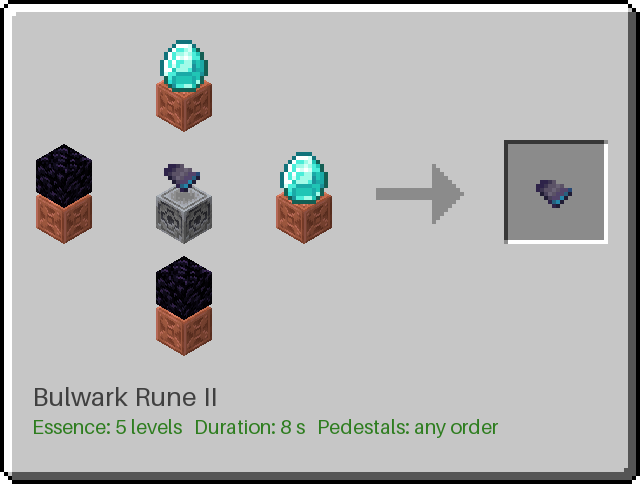
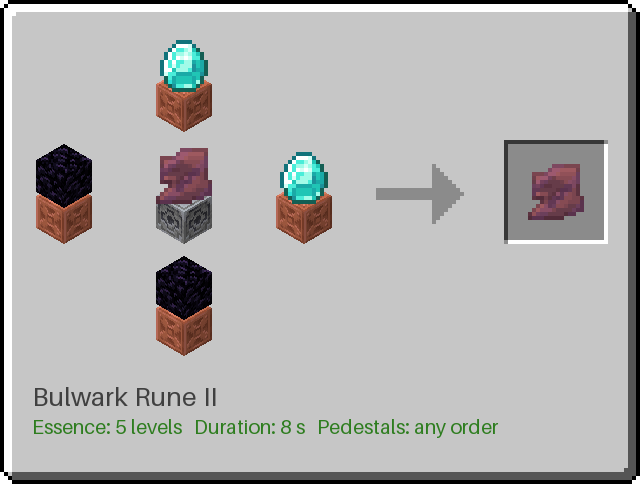
Rune sherd bases
- Name the pottery sherd base of the Blank Rune and of each rune aspect
- Note that Golemancy sherd items are never appraised by Relic Appraiser
- Replace the Blank Rune recipe and 21 rune infusion images with sherd icons

Changed region(s): [[0.8125, 0.3409, 0.9375, 0.4649], [0.2188, 0.2789, 0.3438, 0.4339]]

diff --git a/adapt/36-items-orbs-bound-objects.md b/adapt/36-items-orbs-bound-objects.md
@@ -2,7 +2,7 @@
 title: "Items, Orbs & Bound Objects"
 description: "Experience orbs, backpacks, bound items, and stored item data"
 published: true
-date: 2026-10-18T00:00:00.000Z
+date: 2026-10-19T20:42:18.000Z
 tags: "adapt"
 editor: markdown
 dateCreated: 2026-08-09T00:00:00.000Z
@@ -58,8 +58,8 @@ Item data survives drops, chests, and restarts. Trigger, cooldown, range, and re
 | Filter Node | `BRICK` | Golemancy: Sorter Core | Item kind and node type |
 | Angler Core | `FIREWORK_STAR` | Golemancy: Angler Core | Item kind and role |
 | Fishing Node | `BRICK` | Golemancy: Angler Core | Item kind and node type |
-| Blank Rune | `DISC_FRAGMENT_5` | Golemancy: Runic Augments | Item kind |
-| Rune | `DISC_FRAGMENT_5` | Golemancy: Runic Augments, infused at the Animus Plinth | Item kind, aspect, and tier |
+| Blank Rune | `SCRAPE_POTTERY_SHERD` | Golemancy: Runic Augments | Item kind |
+| Rune | By aspect: Swiftness `GUSTER_POTTERY_SHERD`, Might `ARMS_UP_POTTERY_SHERD`, Ember `BURN_POTTERY_SHERD`, Tide `ANGLER_POTTERY_SHERD`, Order `SHEAF_POTTERY_SHERD`, Entropy `DANGER_POTTERY_SHERD`, Bulwark `SHELTER_POTTERY_SHERD` | Golemancy: Runic Augments, infused at the Animus Plinth | Item kind, aspect, and tier |
 | Shattered Core | `FIREWORK_STAR` | Golemancy: Golem Mending | Item kind, golem id, owner, and the fallen golem's cores, runes, settings, name, and record |
 | Dormant Golem | `SNOW_BLOCK`, `IRON_BLOCK`, or the copper block of the golem's oxidation stage, waxed when the golem was waxed | Golemancy: Stasis | Item kind, golem id, owner, and the packed golem's cores, runes, settings, name, record, carried items, essence, health, and copper state |
 | Masterwork Heart | `HEART_OF_THE_SEA` | Golemancy: Masterwork, infused at the Animus Plinth | Item kind |

diff --git a/adapt/34-skill-golemancy.md b/adapt/34-skill-golemancy.md
@@ -2,7 +2,7 @@
 title: "Skill - Golemancy"
 description: "Golemancy XP sources, adaptations, controls, and configuration"
 published: true
-date: 2026-10-19T19:56:21.000Z
+date: 2026-10-19T20:42:18.000Z
 tags: "adapt"
 editor: markdown
 dateCreated: 2026-10-17T00:00:00.000Z
@@ -231,7 +231,7 @@ Infusions are the `infusionRecipes` tables in the skill configuration, one table
 | `unlockLevel` | Lowest level of `unlockAdaptation` that can perform the infusion, at least 1. |
 | `enabled` | Set to `false` to turn the infusion off. |
 
-A material name never matches a Golemancy item made from that material, so a Masterwork Heart or a rune does not count as a plain `HEART_OF_THE_SEA` or `DISC_FRAGMENT_5`. When two infusions match the same items, the one listed first runs. A table is skipped with a console warning when its `result` is not a rune or the Masterwork Heart, when its `center` or a pedestal is empty, names a material that is not an item, or names an unknown Golemancy item, when `pedestals` does not hold exactly four entries, or when `unlockAdaptation` is empty.
+A material name never matches a Golemancy item made from that material, so a Masterwork Heart does not count as a plain `HEART_OF_THE_SEA`, and a rune does not count as the plain pottery sherd it is made from, such as `GUSTER_POTTERY_SHERD`. When two infusions match the same items, the one listed first runs. A table is skipped with a console warning when its `result` is not a rune or the Masterwork Heart, when its `center` or a pedestal is empty, names a material that is not an item, or names an unknown Golemancy item, when `pedestals` does not hold exactly four entries, or when `unlockAdaptation` is empty.
 
 ## Player preferences
 

diff --git a/adapt/18-skill-discovery.md b/adapt/18-skill-discovery.md
@@ -2,7 +2,7 @@
 title: "Skill - Discovery"
 description: "Discovery XP sources, adaptations, controls, and configuration"
 published: true
-date: 2026-10-13T14:45:24.665Z
+date: 2026-10-19T20:42:18.000Z
 tags: "adapt"
 editor: markdown
 dateCreated: 2026-08-09T00:00:00.000Z
@@ -252,7 +252,7 @@ Each skill line at or above the threshold adds a bonus to all XP gain, up to the
 
 5 levels · 3 knowledge, then 2 per level
 
-Sneak-right-click a head, skull, music disc, armor trim template, or pottery sherd in the main hand to grant rarity-scaled Discovery XP and a bounded random XP payout to one enabled, permitted skill other than Discovery. The item is stamped with a lore tag and refused on a later attempt, placing and breaking an appraised head or skull keeps that data and lore, and with no eligible skill only the Discovery XP is granted.
+Sneak-right-click a head, skull, music disc, armor trim template, or pottery sherd in the main hand to grant rarity-scaled Discovery XP and a bounded random XP payout to one enabled, permitted skill other than Discovery. The item is stamped with a lore tag and refused on a later attempt, placing and breaking an appraised head or skull keeps that data and lore, and with no eligible skill only the Discovery XP is granted. Golemancy items made from a pottery sherd are never appraised.
 
 | Key | Code default | Behavior / units |
 |-----|--------------|------------------|
